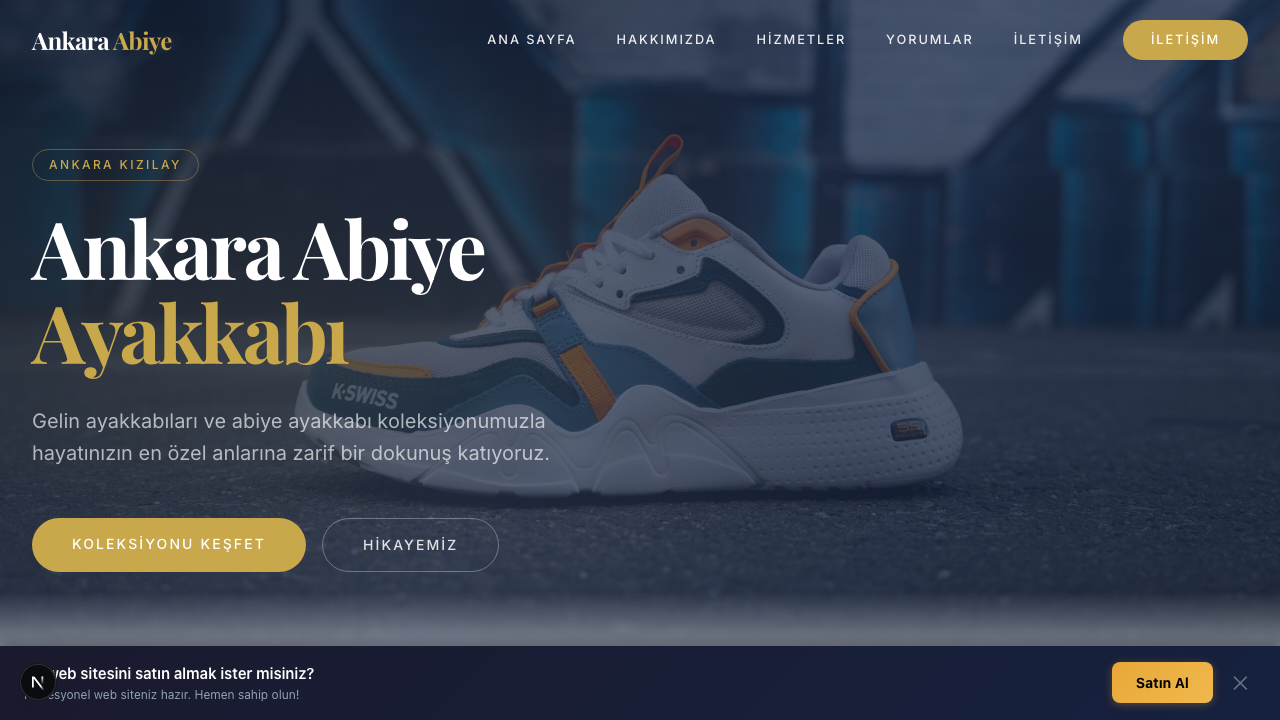
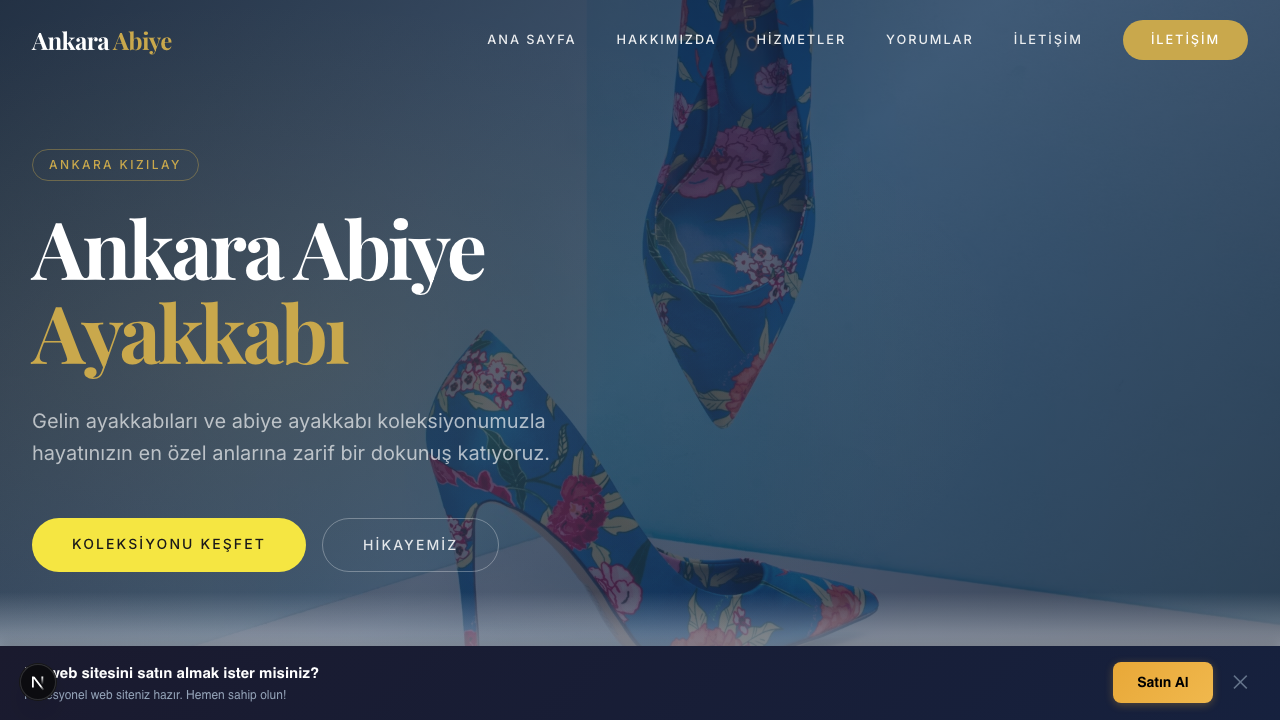
Live edit: yukarıdaki resim spor ayakkabı ama biz abiye ayakkabı satıyo

diff --git a/src/components/Hero.tsx b/src/components/Hero.tsx
@@ -10,7 +10,7 @@ export default function Hero() {
       {/* Background lifestyle photo */}
       <div className="absolute inset-0">
         <img
-          src="https://images.unsplash.com/photo-1595341888016-a392ef81b7de?w=1920&q=80&auto=format&fit=crop"
+          src="https://images.unsplash.com/photo-1515347619252-60a4bf4fff4f?w=1920&q=80&auto=format&fit=crop"
           alt=""
           className="w-full h-full object-cover"
           aria-hidden="true"
